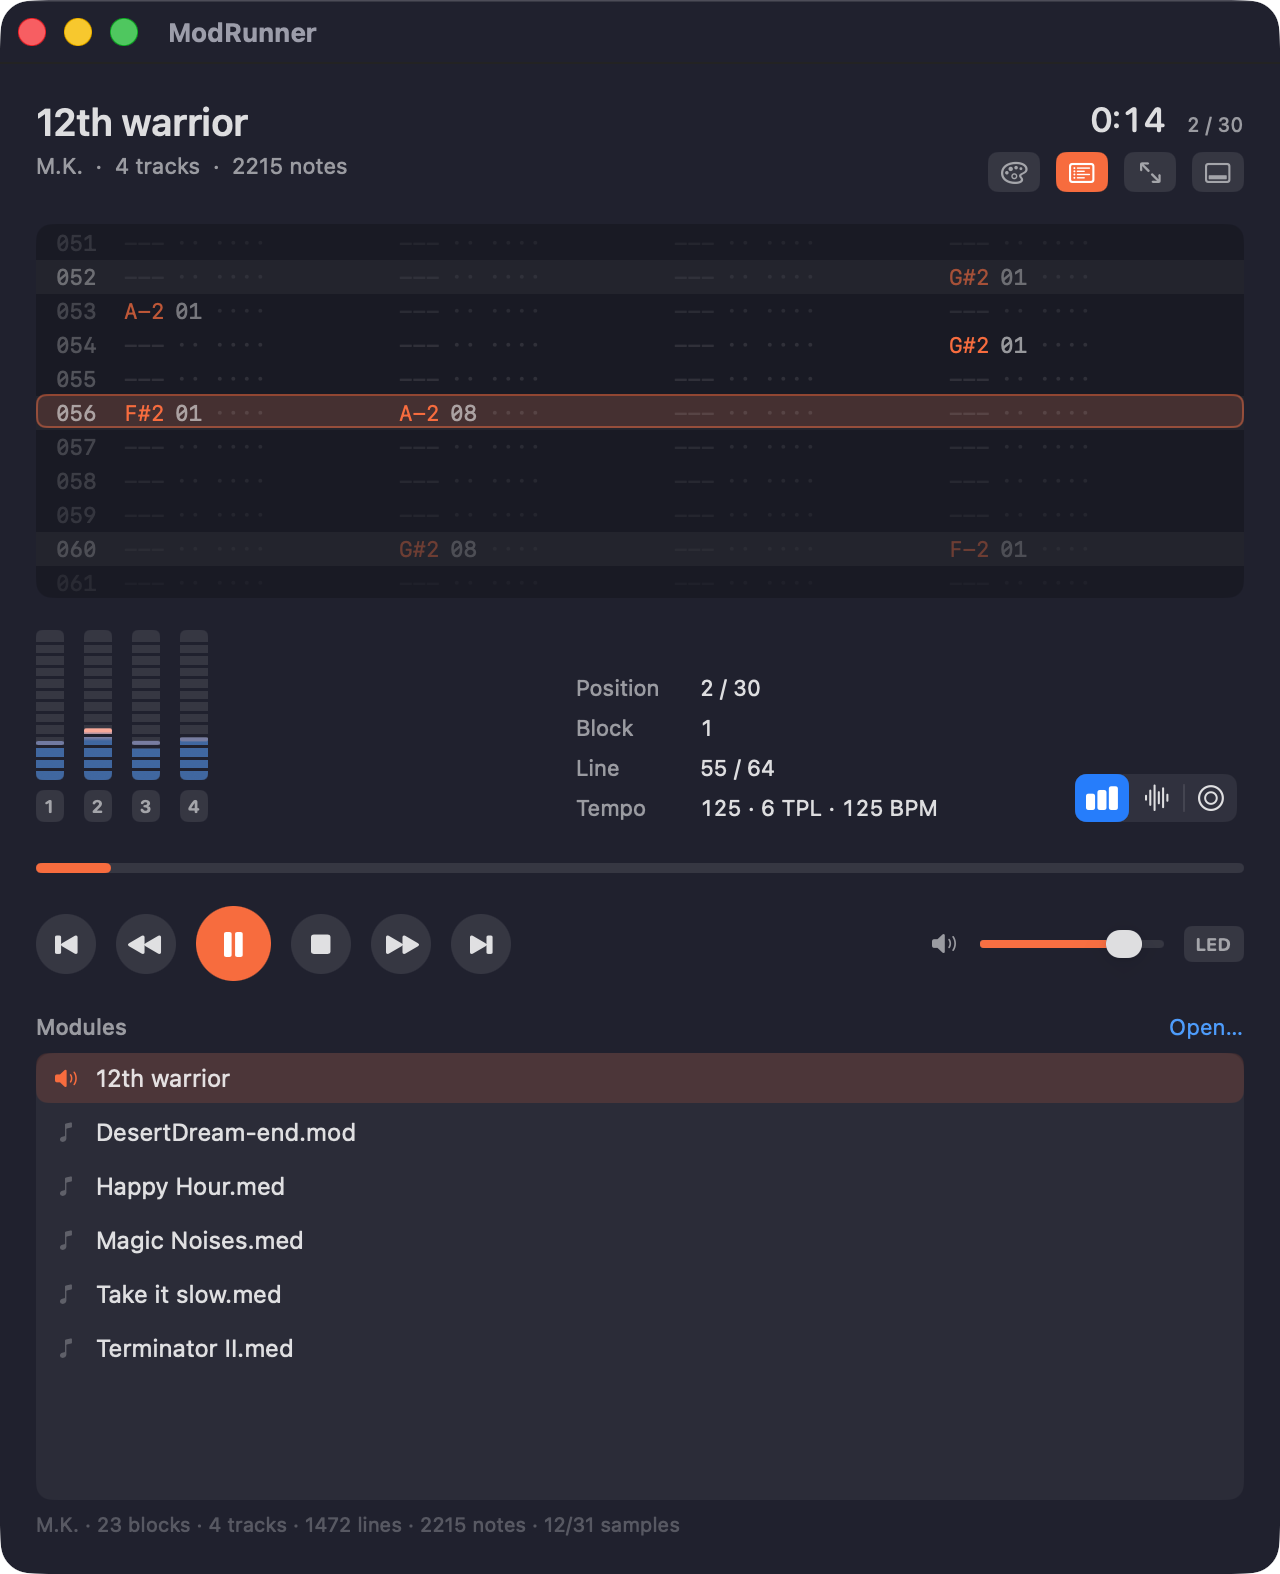
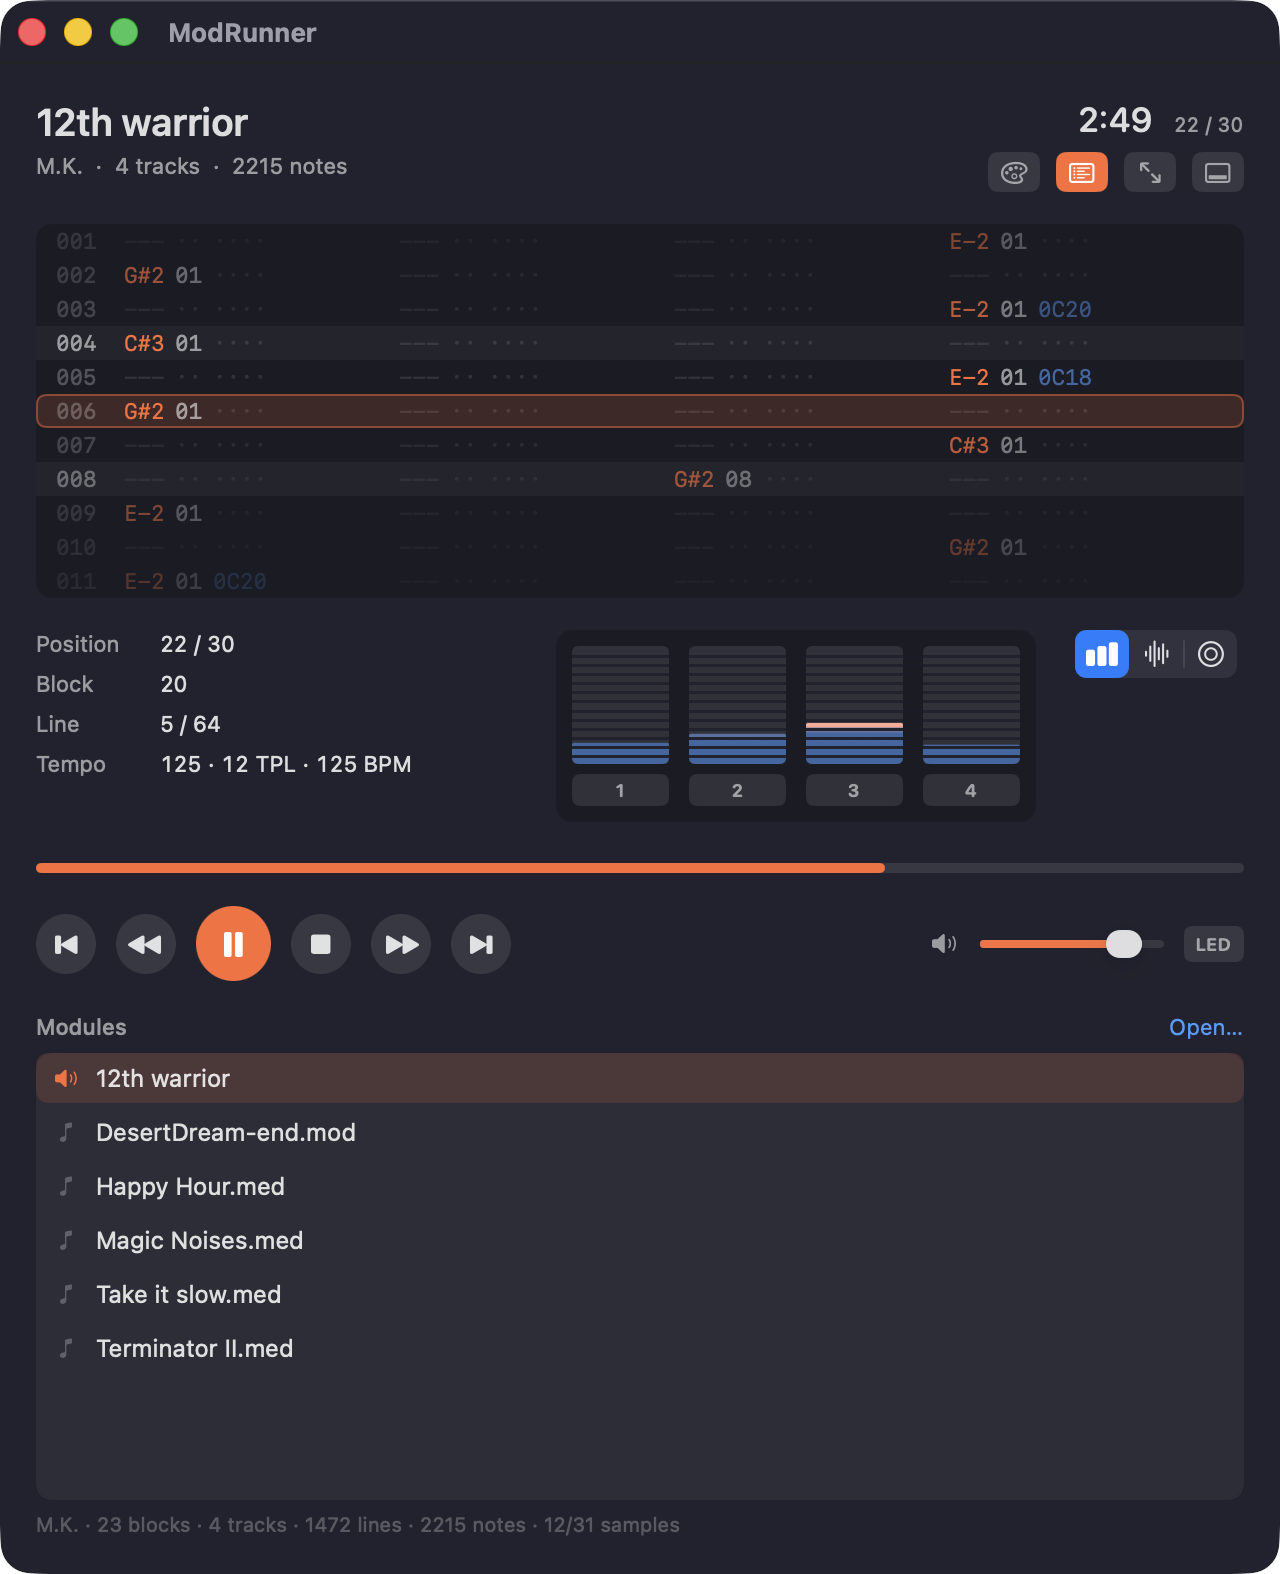
Retake the screenshots in the colours the app now has
All three still showed the grey interface from before the redesign, and
two of them were named after a skin that has since been renamed. They are
retaken from the current build — the Classic ones in Ember — and the
files carry the skin's name: classic.png and portable-classic.png.

diff --git a/README.md b/README.md
@@ -15,12 +15,11 @@ eight colours and no anti-aliasing had to draw.
 
 | Native | Classic |
 |---|---|
-| ![The native interface playing a ProTracker module](docs/screenshots/native.png) | ![The Classic interface playing the same module](docs/screenshots/workbench.png) |
+| ![The native interface playing a ProTracker module](docs/screenshots/native.png) | ![The Classic interface playing the same module](docs/screenshots/classic.png) |
 
 *The same module, the same replayer, the two interfaces — switchable mid-song
-with ⌘1 and ⌘2. Both screenshots still show the earlier grey version of the
-Classic interface and have yet to be retaken; the file names have not been
-changed with them.*
+from the View menu. The Classic one is shown in Ember, the palette it starts
+in.*
 
 ## What it does
 
@@ -150,11 +149,9 @@ display at all:
 modrunner screenshot <module> -o window.png    # the interface, without a window
 ```
 
-![The Classic interface drawn without a toolkit](docs/screenshots/portable-workbench.png)
+![The Classic interface drawn without a toolkit](docs/screenshots/portable-classic.png)
 
-That picture was produced by the command above, not captured from a screen. It
-too still shows the earlier grey version and needs regenerating; the file name
-has been left as it was.
+That picture was produced by the command above, not captured from a screen.
 
 Both surfaces read their colours from the same place: `Palette` in
 `ModRunnerKit`, which is plain bytes and knows nothing about SwiftUI or about
